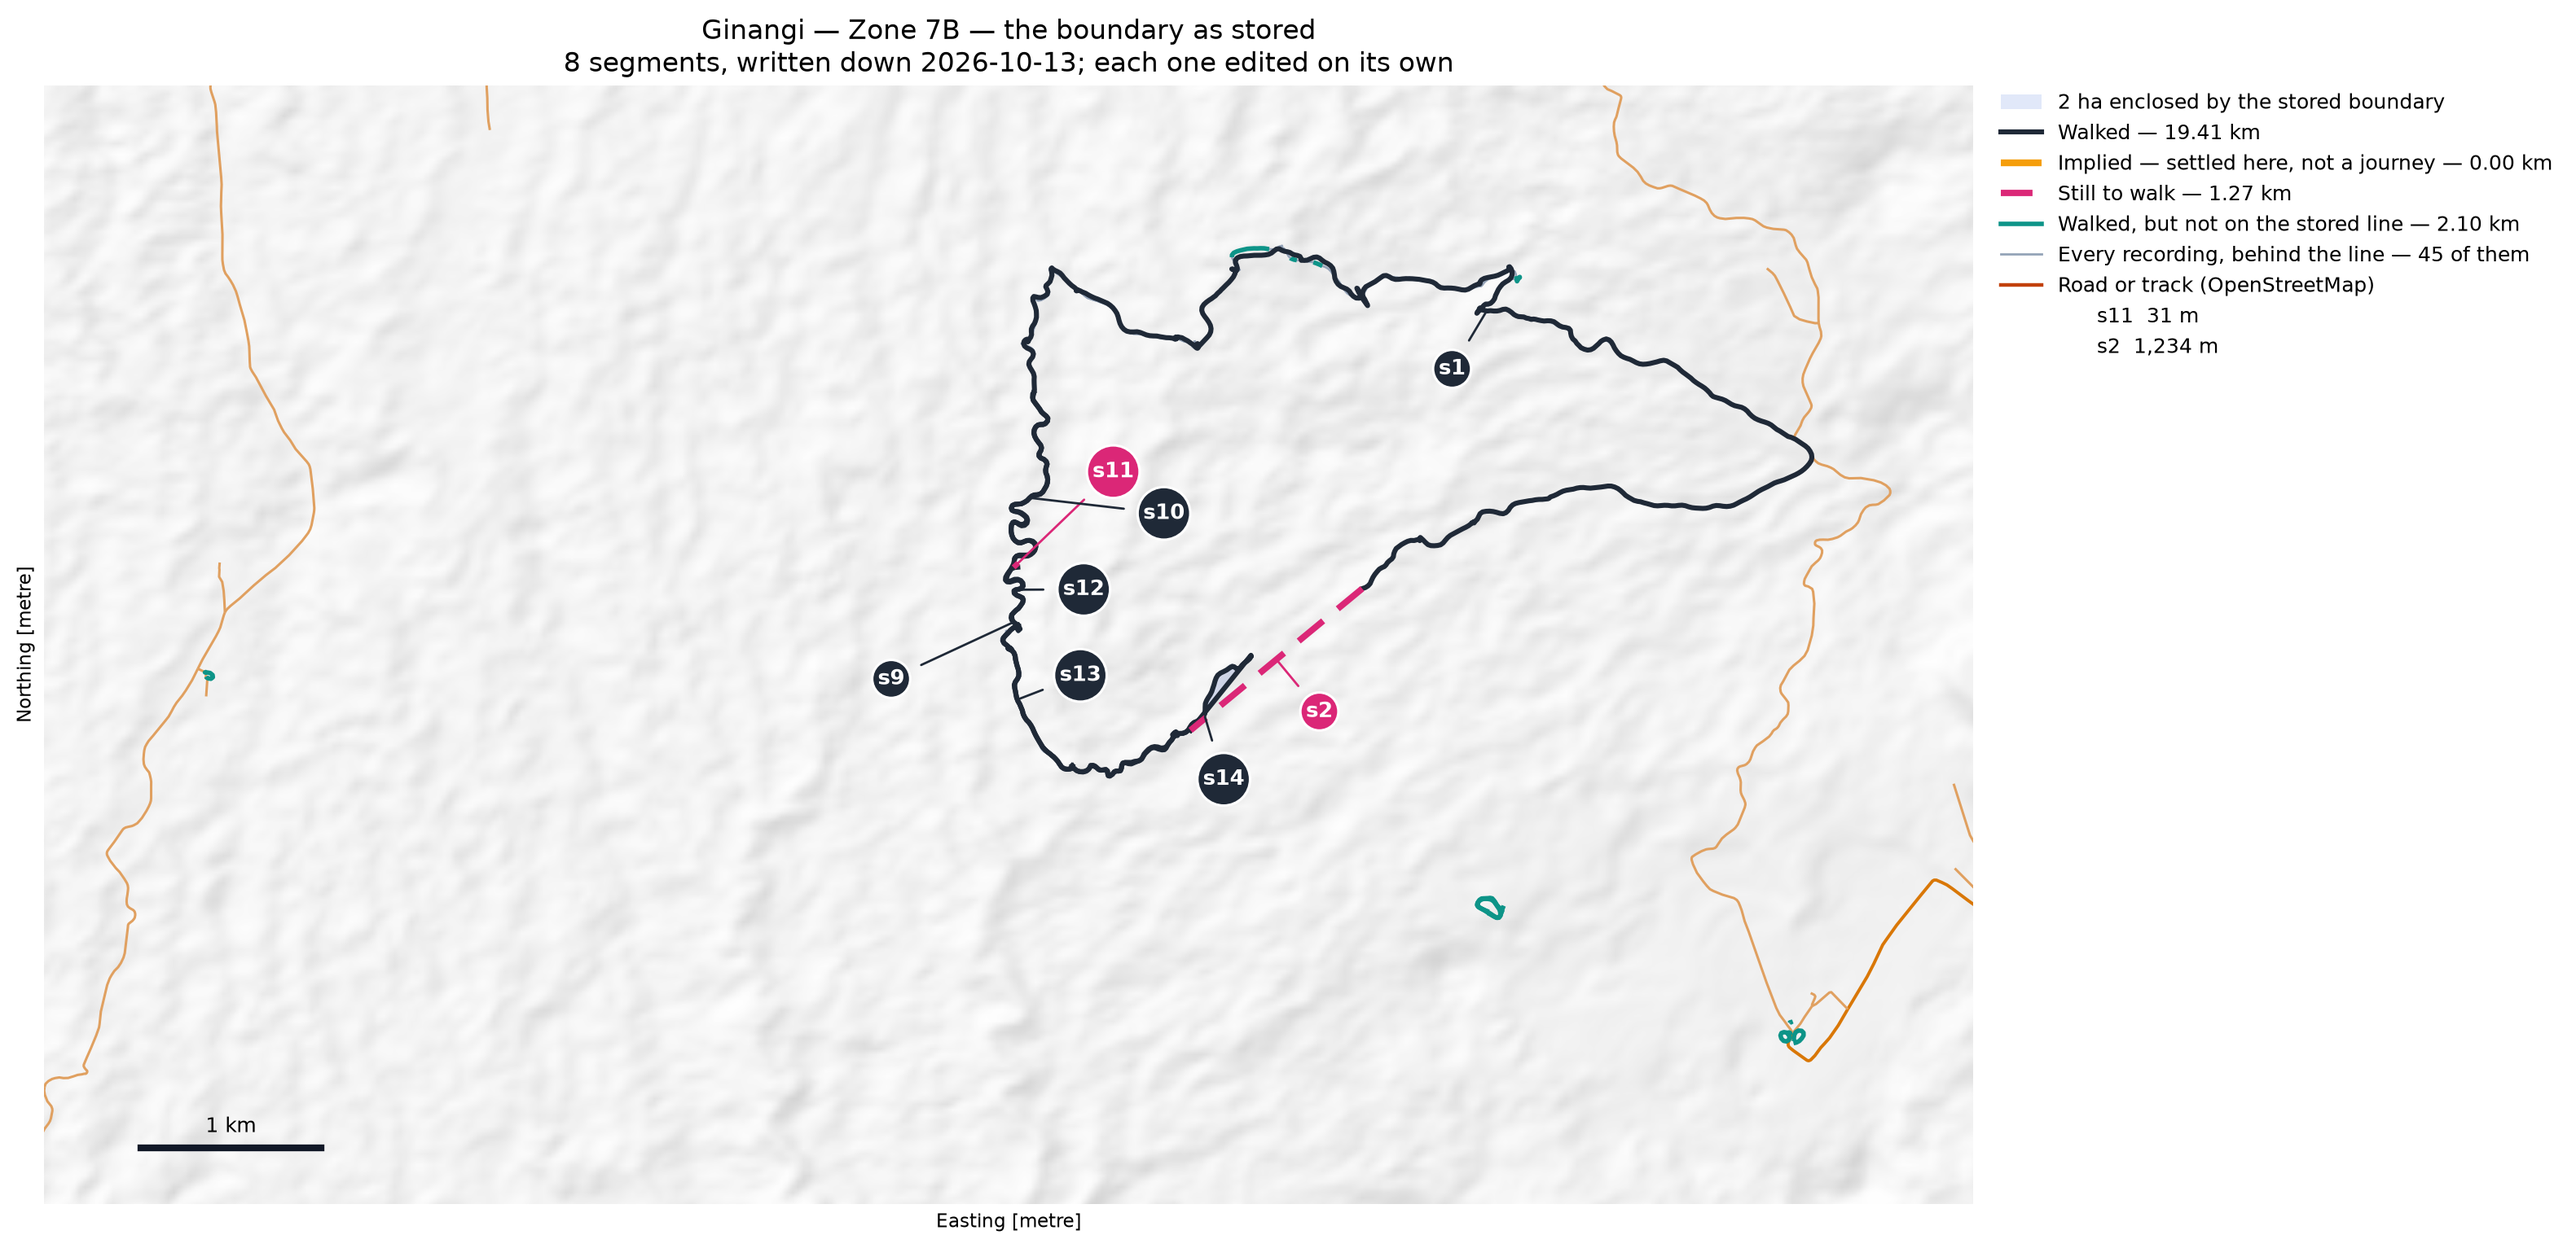
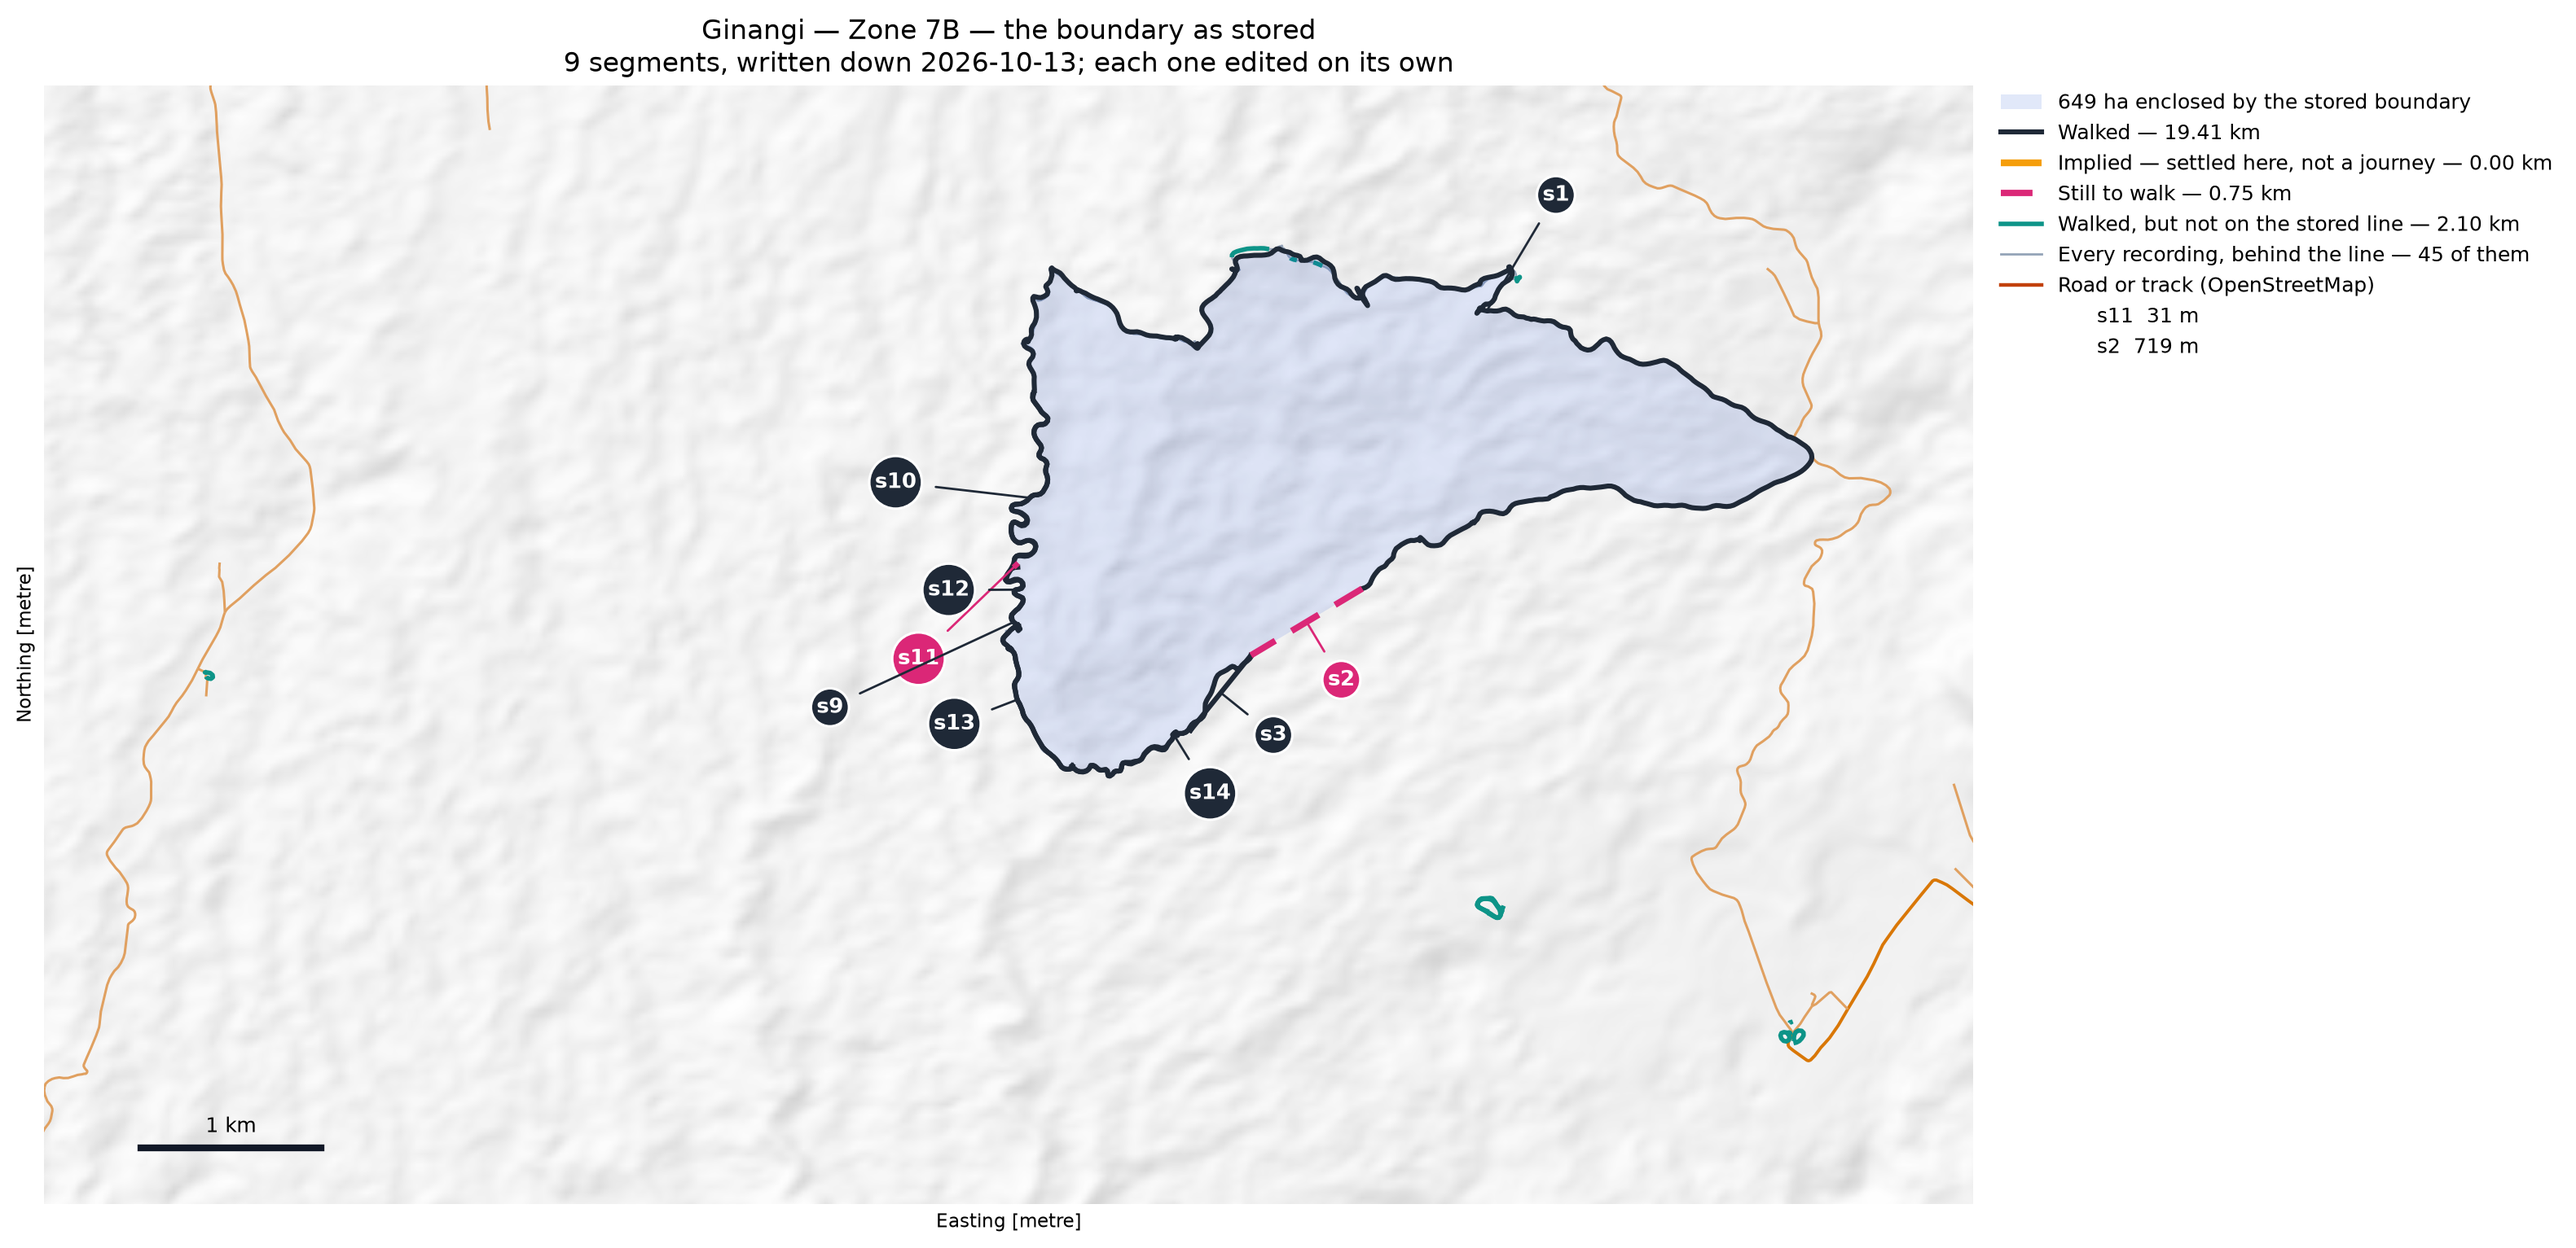
Ginangi closes: 649.1 ha
s14 split where s2 meets it, so the join is a node rather than a
free end landing mid-line.

ring_geometry now chains the segments end to end instead of handing
them to polygonize. Two segments meeting within a metre are the same
join as far as the line is concerned, but polygonize wants the
coordinate to be identical, and a ring closed everywhere to within a
metre came back as forty-six slivers and 1.4 ha.

9 segments, 19.41 km walked, 0.75 km still to walk — s2 at 719 m and
s11 at 31 m. Everything else is the two stewards' own footsteps.

Claude-Session: https://claude.ai/code/session_01K6X75MkuiGQ9rmgDZx45vk

diff --git a/scripts/boundary.py b/scripts/boundary.py
@@ -207,13 +207,55 @@ def solve(clan: str) -> dict:
     return book
 
 
-def ring_geometry(book: dict):
-    """What the stored segments enclose."""
+def ring_geometry(book: dict, tolerance: float = 1.0):
+    """What the stored segments enclose.
+
+    The segments are chained end to end rather than handed to
+    polygonize. Two segments that meet within a metre are the same join
+    as far as the line is concerned, but polygonize wants the coordinate
+    to be identical, and a ring that is closed everywhere to within a
+    metre came back as forty-six slivers and 1.4 ha.
+    """
+    from shapely.geometry import Polygon
+
     lines = [shapely_wkt.loads(s["wkt"]) for s in book["segments"]]
-    faces = [f for f in polygonize(unary_union(lines)) if f.area > 0]
-    if not faces:
+    lines = [line for line in lines if line.length > 0]
+    if not lines:
         return None
-    return unary_union(faces)
+    rings, spare = [], list(lines)
+    while spare:
+        run = list(spare.pop(0).coords)
+        moved = True
+        while moved and spare:
+            moved = False
+            tail = Point(run[-1][:2])
+            head = Point(run[0][:2])
+            for index, line in enumerate(spare):
+                a = Point(line.coords[0][:2])
+                b = Point(line.coords[-1][:2])
+                if tail.distance(a) <= tolerance:
+                    run += list(line.coords)[1:]
+                elif tail.distance(b) <= tolerance:
+                    run += list(line.coords)[::-1][1:]
+                elif head.distance(b) <= tolerance:
+                    run = list(line.coords)[:-1] + run
+                elif head.distance(a) <= tolerance:
+                    run = list(line.coords)[::-1][:-1] + run
+                else:
+                    continue
+                spare.pop(index)
+                moved = True
+                break
+        if len(run) > 3 and Point(run[0][:2]).distance(
+                Point(run[-1][:2])) <= tolerance:
+            shape = Polygon([c[:2] for c in run])
+            if not shape.is_valid:
+                shape = shape.buffer(0)
+            if shape.area > 0:
+                rings.append(shape)
+    if not rings:
+        return None
+    return unary_union(rings)
 
 
 def open_ends(book: dict, tolerance: float = 1.0):
